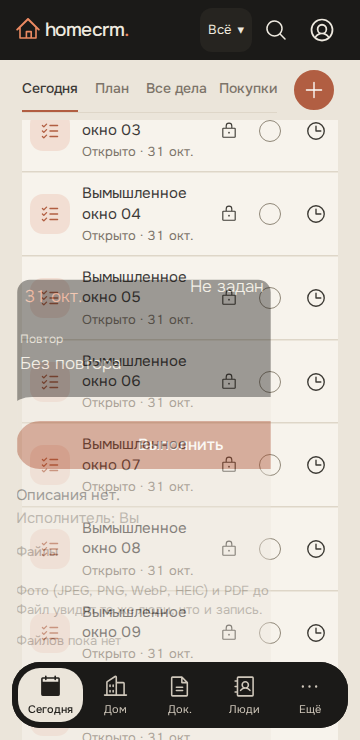
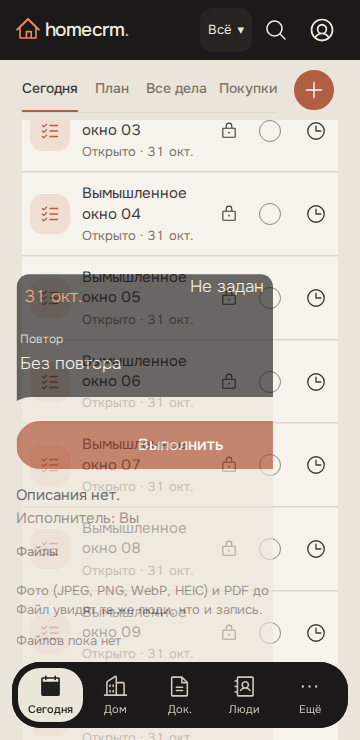
UI-8: ровная кривая раскрытия карточки (D38)
--ease-card: cubic-bezier(0.4, 0, 0.2, 1) вместо --ease-sheet,
--motion-card: 520ms. Кадры d38 пересняты.

diff --git a/apps/web/e2e/app/spatial-motion.e2e.ts b/apps/web/e2e/app/spatial-motion.e2e.ts
@@ -114,7 +114,7 @@ test.describe('D38: окно раскрытия', () => {
 
     const row = await open();
     const first = await frame(0);
-    expect(first.duration).toBe('0.48s');
+    expect(first.duration).toBe('0.52s');
     expect(first.transform).toBe('none');
     expect(first.opacity).toBeLessThan(0.05);
     const [top, right, bottom, left] = insets(first.clip);
@@ -130,7 +130,7 @@ test.describe('D38: окно раскрытия', () => {
     expect(middle.oldOpacity).toBeGreaterThan(0.3);
     const [midTop] = insets(middle.clip);
     expect(midTop).toBeLessThan(top);
-    const last = await frame(479);
+    const last = await frame(519);
     expect(last.transform).toBe('none');
     expect(insets(last.clip).every((value) => value < 2)).toBe(true);
     // Данные карточки приходят во время раскрытия и не обрывают его.
@@ -141,8 +141,8 @@ test.describe('D38: окно раскрытия', () => {
 
     if (screens)
       for (const [name, time] of [
-        ['card-start-w360', 40],
-        ['card-middle-w360', 110],
+        ['card-start-w360', 130],
+        ['card-middle-w360', 260],
       ] as const) {
         // Системный «Назад» не перехватывается: список возвращается без перехода.
         await page.goBack();

diff --git a/apps/web/src/styles/motion.css b/apps/web/src/styles/motion.css
@@ -461,16 +461,16 @@ html[data-design="studio"] [data-motion-completed="true"] .task-completion-circl
     animation: motion-screen-back-out var(--motion-screen) var(--ease-out) both;
   }
   html[data-motion-card="forward"][data-motion-direction]::view-transition-new(screen) {
-    animation: motion-card-in var(--motion-card) var(--ease-sheet) both;
+    animation: motion-card-in var(--motion-card) var(--ease-card) both;
   }
   html[data-motion-card="forward"][data-motion-direction]::view-transition-old(screen) {
-    animation: motion-card-under-out var(--motion-card) var(--ease-sheet) both;
+    animation: motion-card-under-out var(--motion-card) var(--ease-card) both;
   }
   html[data-motion-card="back"][data-motion-direction]::view-transition-old(screen) {
-    animation: motion-card-out var(--motion-card) var(--ease-sheet) both;
+    animation: motion-card-out var(--motion-card) var(--ease-card) both;
   }
   html[data-motion-card="back"][data-motion-direction]::view-transition-new(screen) {
-    animation: motion-card-under-in var(--motion-card) var(--ease-sheet) both;
+    animation: motion-card-under-in var(--motion-card) var(--ease-card) both;
   }
   .sheet:not(.sheet--full) {
     transition: transform var(--motion-sheet) var(--ease-sheet);

diff --git a/apps/web/e2e/app/motion-polish.e2e.ts b/apps/web/e2e/app/motion-polish.e2e.ts
@@ -146,7 +146,7 @@ for (const reduce of [false, true])
       expect(motion.direction).toBe('forward');
       expect(motion.next).toBe(reduce ? 'motion-fade-in' : 'motion-card-in');
       // D38: строка раскрывается окном за --motion-card.
-      expect(motion.duration).toBe(reduce ? '0.16s' : '0.48s');
+      expect(motion.duration).toBe(reduce ? '0.16s' : '0.52s');
       expect(motion.dock).toBe('none');
       expect(motion.header).toBe('none');
       if (!reduce) {

diff --git a/apps/web/src/styles/tokens.css b/apps/web/src/styles/tokens.css
@@ -5,10 +5,11 @@
   --motion-base: 240ms;
   --motion-screen: 400ms;
   --motion-fly: 560ms;
-  --motion-card: 480ms;
+  --motion-card: 520ms;
   --motion-sheet: 420ms;
   --ease-out: cubic-bezier(0.22, 0.8, 0.24, 1);
   --ease-sheet: cubic-bezier(0.32, 0.72, 0, 1);
+  --ease-card: cubic-bezier(0.4, 0, 0.2, 1);
   --paper: #f7f7f2;
   --surface: #ffffff;
   --ink: #232d28;

diff --git a/docs/adr/0045-motion-language.md b/docs/adr/0045-motion-language.md
@@ -21,9 +21,10 @@
 | `--motion-base` | 240 мс | Строки списков, плашка снизу, заглушки, панель |
 | `--motion-screen` | 350 мс | Смена экрана |
 | `--motion-sheet` | 420 мс | Нижний лист |
-| `--motion-card` | 480 мс | Раскрытие карточки из строки окном (D38, 31 октября) |
+| `--motion-card` | 520 мс | Раскрытие карточки из строки окном (D38, 31 октября) |
 | `--ease-out` | `cubic-bezier(.22, .8, .24, 1)` | Почти всё |
 | `--ease-sheet` | `cubic-bezier(.32, .72, 0, 1)` | Листы |
+| `--ease-card` | `cubic-bezier(.4, 0, .2, 1)` | Раскрытие карточки: ровный разгон и торможение (D38) |
 
 Длительности вне таблицы не используются.
 
@@ -61,7 +62,7 @@
 
 По примеру владельца и его команде подготовить PR: раздел раскрывается из действительных границ значка нижней или боковой панели, а не из почти полного экрана (D37: 88%). Длительность — существующий `--motion-screen`, содержимое проявляется в конце раскрытия; панель остаётся доступной.
 
-Карточка, открытая ссылкой строки, раскрывается из границ этой строки — окном, а не растяжением (D38, после проверки владельцем: «очень резкая»). Снимок нового экрана не масштабируется неравномерно: его открывает `clip-path: inset(… round 16px)` от границ строки до полного экрана; содержимое проявляется за первые 60 % движения, список под карточкой гаснет до 40 % прозрачности вместе с раскрытием. Возврат — окно сжимается к заново измеренной строке и гаснет во второй половине, список проявляется, строка коротко подсвечивается. Длительность — новый токен `--motion-card: 480ms`, кривая `--ease-sheet`, без пружины. Общий переход названия (`card-title`) убран: при разной ширине строки и шапки он сам искажал текст и мигал за `--motion-fast`. Шапка страницы при раскрытии не снимается отдельно (`page-heading`): карточка пересоздаёт её, когда приходят данные, и браузер обрывал переход на полпути. Анимируются только `clip-path` и `opacity`; прежний снимок только ставится на своё место сдвигом, без масштаба. История и явная ссылка назад возвращают прежнюю позицию списка; при доступной строке обратный переход направлен в неё. Прямые ссылки и формы используют прежний D30, карусель D32 и улёт дел сохраняются. Координаты обратного перехода повторно измеряются в восстановленном списке. Запоминание — только в памяти текущего входа, очищается при выходе из оболочки; настоящие данные не сохраняются в браузерное хранилище ради анимации.
+Карточка, открытая ссылкой строки, раскрывается из границ этой строки — окном, а не растяжением (D38, после проверки владельцем: «очень резкая»). Снимок нового экрана не масштабируется неравномерно: его открывает `clip-path: inset(… round 16px)` от границ строки до полного экрана; содержимое проявляется за первые 60 % движения, список под карточкой гаснет до 40 % прозрачности вместе с раскрытием. Возврат — окно сжимается к заново измеренной строке и гаснет во второй половине, список проявляется, строка коротко подсвечивается. Длительность — новый токен `--motion-card: 520ms`, кривая `--ease-card` (`cubic-bezier(.4, 0, .2, 1)`): ровный разгон и торможение, без пружины; `--ease-sheet` раскрывал окно почти целиком за 110 мс. Общий переход названия (`card-title`) убран: при разной ширине строки и шапки он сам искажал текст и мигал за `--motion-fast`. Шапка страницы при раскрытии не снимается отдельно (`page-heading`): карточка пересоздаёт её, когда приходят данные, и браузер обрывал переход на полпути. Анимируются только `clip-path` и `opacity`; прежний снимок только ставится на своё место сдвигом, без масштаба. История и явная ссылка назад возвращают прежнюю позицию списка; при доступной строке обратный переход направлен в неё. Прямые ссылки и формы используют прежний D30, карусель D32 и улёт дел сохраняются. Координаты обратного перехода повторно измеряются в восстановленном списке. Запоминание — только в памяти текущего входа, очищается при выходе из оболочки; настоящие данные не сохраняются в браузерное хранилище ради анимации.
 
 Если список ещё загружается, позиция восстанавливается после появления нужной высоты; собственная прокрутка или касание отменяют ожидание. В reduced motion остаётся прозрачность, без масштабирования и перемещения; отсутствие View Transitions сохраняет работоспособную навигацию.
 
